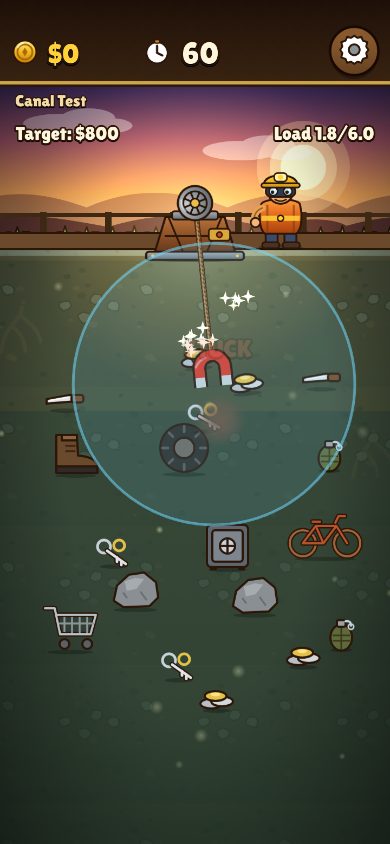
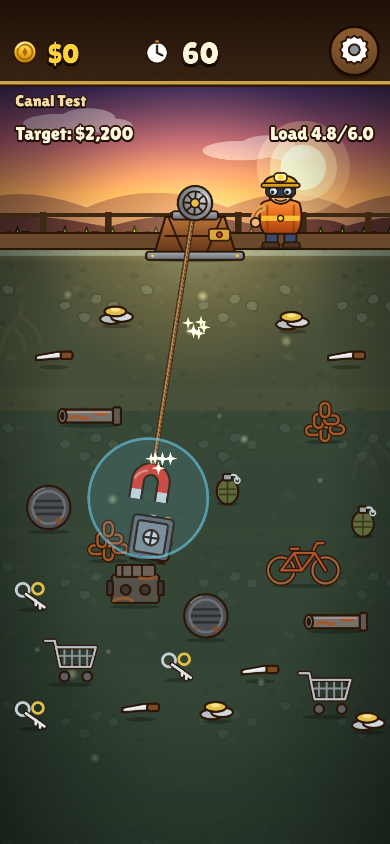
Magnet Test round 2: docs, asset list, screenshots
Claude-Session: https://claude.ai/code/session_01MzS7afRqjxV5kuCJX25p6R

diff --git a/docs/MAGNET_PROTOTYPE.md b/docs/MAGNET_PROTOTYPE.md
@@ -2,6 +2,15 @@
 
 Bu bir deneme. Amaç bitmiş oyun değil: "mıknatısla balık tutma" mekaniği telefonda eğlenceli mi, onu hissetmek. Deep Claw olduğu gibi duruyor, bu ayrı bir mod.
 
+## 2. tur: ne değişti (ilk oynanıştan sonra)
+
+1. **Çekim alanı çok küçüldü.** Varsayılan yarıçap 260 yerine **110**, aralık 80-420 yerine **60-200**. Çekim artık mesafeyle düz bir çizgide azalıyor (eskiden daha sert düşüyordu), böylece küçük alanda da "kayıp yapışma" görülebiliyor. Mıknatıs artık süpürge değil, biraz hata payı veren bir kanca.
+2. **Ayarlar yeni bir anahtarla saklanıyor** (`deepclaw.magnet.settings.v2`). Telefonda kalan eski büyük değerler yeni varsayılanları ezmez. İlk açılışta ayarların hepsi varsayılana dönmüş olacak.
+3. **El bombası çekim alanından hiç etkilenmiyor.** Kaymaz, titremez. Sadece mıknatısın yüzü doğrudan değerse patlar (patlama aynı: çevresindeki eşyaları ve mıknatısın taşıdığı yükü yok eder). Küçük bir kural değişikliği daha: eskiden mıknatıs neredeyse doluyken bombaya değerse patlamıyor, "takılıyordu". Artık kapasite fark etmez, değen bomba patlar.
+4. **Lastik, bot ve taş kaldırıldı.** Metal olmayan eşya yok. Yerlerine **ağır ve ucuz hurda metaller** geldi. Hepsi çekilir ve yapışır, ama kapasiteyi yer ve yavaş geri gelir (Deep Claw'daki kayalar gibi).
+5. **"Kanal Testi" baştan yerleştirildi** ve simülasyonla dengelendi. Hedef 800 yerine **2200**.
+6. Kapasiteye sığmayan bir eşyaya çarpınca çıkan yazı "TAKILDI" yerine **"SIĞMADI"**. Artık takılmanın tek sebebi bu.
+
 ## Nasıl açılır
 
 - Ana menüde kırmızı **Magnet Test** düğmesi (Levels düğmesinin altında).
@@ -10,81 +19,117 @@ Bu bir deneme. Amaç bitmiş oyun değil: "mıknatısla balık tutma" mekaniği 
 
 Dokunuş: ekranın herhangi bir yerine dokun, mıknatıs iner. Klavyede Boşluk veya Aşağı ok. `G` ayar panelini açar/kapar, `Esc` panelden/modden çıkar.
 
-Bu modun sonucu hiçbir şeyi kaydetmez: para, yıldız, ilerleme yok. Deep Claw kaydına dokunmaz. Sadece ayarların (aşağıda) hatırlanır.
+Bu modun sonucu hiçbir şeyi kaydetmez: para, yıldız, ilerleme yok. Deep Claw kaydına dokunmaz. Sadece ayarların hatırlanır.
 
 ## Oyun: "Kanal Testi"
 
-60 saniye, hedef 800 para. Köprüden bulanık bir kanala bakıyorsun. Mıknatıs aynı Deep Claw kancası gibi sallanır ve iner.
+60 saniye, hedef 2200 para. Köprüden bulanık bir kanala bakıyorsun. Mıknatıs Deep Claw kancası gibi sallanır ve iner. Kanaldaki her şey metal: değen ya da çekim alanında yanından geçen eşya yapışır. Yük yüzeye gelince hepsi birden teslim edilir.
 
-**Metal** eşyalar mıknatısa çekilir ve yapışır: bozuk para kümesi (50, hafif), anahtar destesi (90), çakı (70), paslı bisiklet (300, ağır), alışveriş arabası (450, çok ağır), kilitli kasa (150 ile 700 arası rastgele, teslimatta açılır) ve **eski el bombası** (değeri yok, yapışırsa patlar).
+| Eşya | Değer | Ağırlık | Not |
+|---|---|---|---|
+| Bozuk para kümesi | 50 | 0,5 | hafif |
+| Çakı | 70 | 0,6 | hafif |
+| Anahtar destesi | 90 | 0,8 | hafif |
+| Paslı bisiklet | 300 | 3,5 | değerli, ağır |
+| Kilitli kasa | 150 ile 700 arası (ortalama 425) | 4 | değerli, teslimatta açılır |
+| Alışveriş arabası | 450 | 6 | değerli, çok ağır: varsayılan kapasitede ancak mıknatıs boşken yapışır |
+| Paslı demir boru | 15 | 3 | hurda |
+| Rögar kapağı | 20 | 4 | hurda |
+| Paslı zincir yığını | 25 | 3,5 | hurda |
+| Eski motor bloğu | 40 | 6 | hurda, tek başına kapasiteyi doldurur |
+| Eski el bombası | 0 | - | çekilmez, değerse patlar |
 
-**Metal olmayan** eşyalar (lastik, bot, taş) çekilmez. Mıknatıs bunlara çarparsa takılır ve o anki yüküyle geri döner.
+**Hurda neden tuzak:** varsayılan kapasite 6. Önüne bir boru (3) çıkarsa, arkasındaki kasa (4) artık sığmaz: mıknatıs kasaya çarpar, "SIĞMADI" der ve sadece boruyla, yavaşça geri gelir. Değerli eşyaya ulaşmak için hurdayı atlatacak açıyı seçmen ya da önce hurdayı temizlemen gerekir.
 
-Yük yüzeye gelince hepsi birden teslim edilir. Süre bitince ya da kanalda alınacak metal kalmayınca bölüm biter; inen mıknatıs önce geri gelir (Deep Claw ile aynı kural).
+**Yerleşim:**
+- Üstte hafif bozuk paralar. Anahtar destesi tam başlangıcın altında.
+- **Kasa** ortanın biraz solunda. Sol yarısını bir boru örtüyor, sağında bir bomba bekliyor. Aralarında yaklaşık **14 derecelik** açık su var (eskiden 6 derece).
+- **Bisiklet** sağda. Sağ yarısını bir zincir yığını örtüyor, yanında ikinci bomba var. Açık pencere yaklaşık 9 derece.
+- **İki alışveriş arabası** başlangıçta tamamen hurdanın arkasında. Soldakinin önünde zincir yığını ve motor bloğu, sağdakinin önünde bisiklet ve bir boru var. Önce onları temizlemek gerekiyor.
+- Altta, rögar kapaklarının arkasında birkaç hafif eşya.
+
+Süre bitince ya da kanalda alınacak bir şey kalmayınca bölüm biter; inen mıknatıs önce geri gelir.
 
 ### Neyi denemeni öneririm
 
-1. Önce ayarları elleme. Doğrudan aşağıya at: ortada anahtar destesi var, kolay para.
-2. Halkaya bak. Mavi yarı saydam halka çekim alanı. İçindeki metal eşyalar titreyerek mıknatısa kayar.
-3. Ortadaki lastiğin arkasında **kasa** var. Düz atınca lastiğe takılırsın. Kasayı almak için lastiğin hafif sağından geçecek bir açı lazım (ekran görüntüsünde sağ orta). Çekim yarıçapını büyütünce daha kolay olur.
-4. **El bombaları** değerli şeylerin yanında (bisikletin yanı, sağ alttaki paraların yanı). Çekim yarıçapı büyükse bombayı da çekersin. Bomba yapışınca patlar, yanındaki eşyaları ve mıknatısın taşıdığı yükü de yok eder, mıknatıs boş döner.
-5. İki davranışı karşılaştır (panelde mavi düğme). Aynı seviyeyi ikisiyle de oyna.
-6. Kapasiteyi 2'ye indir, sonra 14'e çıkar. Hissini karşılaştır.
-7. Ağır şeyleri (araba, bisiklet) tek başına çek: dönüş ne kadar yavaş?
+1. Önce ayarları elleme. Halkanın ne kadar küçüldüğüne bak. Bir eşyanın hemen yanından geçince ona doğru kaydığını gör: hafif eşyalar belirgin kayar, ağır olanlar neredeyse hiç.
+2. Bombanın yanından kasten geç. Halkanın içinde kalsa bile kıpırdamamalı.
+3. Kasayı boru ile bomba arasından al.
+4. Bir arabaya ulaşmayı dene: önündeki hurdayı mı temizlersin, yoksa başka şeye mi gidersin? Bu bölümün asıl kararı bu.
+5. Kapasiteyi 8'e çıkar, sonra 4'e indir. 8'de boru artı kasa sığar ve tuzak yumuşar. 4'te araba ve motor bloğu hiç alınamaz, engel olur.
+6. Davranışı (panelde mavi düğme) değiştirip aynı seviyeyi oyna.
 
 ## Ayar paneli
 
-Oyun ekranında sağ üstteki **dişli** düğmesi. Panel alttan açılır, yarı saydam. Oyun arkada çalışmaya devam eder, sadece **süre sayacı durur** (ayar yaparken süre yanmasın diye). Panelin üstündeki alana dokunarak atış yapıp değişikliği hemen deneyebilirsin. Değerler telefonda hatırlanır. **Varsayılana dön** hepsini sıfırlar.
+Oyun ekranında sağ üstteki **dişli** düğmesi. Panel alttan açılır, yarı saydam. Oyun arkada çalışmaya devam eder, sadece **süre sayacı durur**. Değerler telefonda hatırlanır. **Varsayılana dön** hepsini sıfırlar.
 
-| Ayar | Ne işe yarar | Aralık |
+| Ayar | Ne işe yarar | Aralık | Varsayılan |
+|---|---|---|---|
+| Çekim yarıçapı | Mıknatısın yüzünden eşyanın ortasına kadar ölçülen alan. İçindeki eşyalar (bomba hariç) mıknatısa kayar. | 60 - 200 | 110 |
+| Çekim gücü | Alandaki eşyaların ne hızla kaydığı. Kenara doğru azalır, eşya ağırsa yavaşlar. | 100 - 1600 | 700 |
+| Kapasite | Mıknatısın taşıyabileceği toplam ağırlık. Dolunca geri döner. Kalan kapasiteye sığmayan eşya yapışmaz, mıknatıs ona çarpıp durur. | 2 - 20 | 6 |
+| İniş hızı | Mıknatıs ne hızla iner. | 300 - 1500 | 850 |
+| Davranış | **Süpürme:** kapasite dolana, kenara ya da sığmayan bir şeye çarpana kadar iner, yoldaki her şeyi toplar. **İlk yapışmada dur:** ilk eşya yapışınca geri döner. | iki seçenek | Süpürme |
+| Halka | Çekim alanını gösteren halka. Kapalıyken de alan çalışır. | açık / kapalı | açık |
+
+Ayarlarda olmayıp `src/config/magnet.ts` içinde olanlar: eşya değerleri ve ağırlıkları, geri çekme gücü, çekimin mesafeyle azalma eğrisi (`falloffPower`, şimdi 1), bomba yarıçapı, "bomba yükü de yok etsin mi", seviye yerleşimi ve hedef.
+
+## Denge ölçümleri
+
+Ölçümler `npx vite-node tools/magnet-balance.ts` ile alındı. Para beklenen değerle sayılır (kasa 425), böylece sonuç tekrarlanabilir. Kanaldaki toplam para 2625.
+
+**Çekim alanının hata payı** (850 iniş hızında, eşyanın yanından düz geçerken; "doğrudan değme" mesafesinin üstüne eklenen kısım):
+
+| Eşya | Eski (260, sert eğri) | Yeni (110, düz eğri) |
 |---|---|---|
-| Çekim yarıçapı | Mıknatısın etrafındaki alan. Büyüdükçe nişan almak kolaylaşır, ama bombayı ve istemediğin şeyleri de çekersin. | 80 - 420 |
-| Çekim gücü | Alandaki eşyaların ne hızla kaydığı. Mesafe arttıkça zayıflar, eşya ağırsa yavaşlar. | 100 - 1600 |
-| Kapasite | Mıknatısın taşıyabileceği toplam ağırlık. Dolunca geri döner. Kalan kapasiteye sığmayan metal eşya yapışmaz, engel gibi davranır (mıknatıs takılır). | 2 - 20 |
-| İniş hızı | Mıknatıs ne hızla iner. Hızlıysa süre kazanırsın, yavaşsa daha rahat nişan alırsın. | 300 - 1500 |
-| Davranış | **Süpürme:** kapasite dolana, kenara ya da metal olmayan bir şeye çarpana kadar iner, yoldaki her şeyi toplar. **İlk yapışmada dur:** ilk eşya yapışınca geri döner (Deep Claw'a daha yakın). | iki seçenek |
-| Halka | Çekim alanını gösteren halka. Kapalıyken de alan çalışır, sadece görünmez. | açık / kapalı |
+| Bozuk para | +98 px | +28 px |
+| Anahtar | +60 px | +20 px |
+| Kasa | +16 px | +4 px |
+| Bisiklet | +16 px | 0 |
+| Boru / motor bloğu | +18 / +10 px | +2 / +2 px |
 
-Ayarlarda olmayıp `src/config/magnet.ts` içinde olanlar (istersen söyle, panele ekleyeyim): geri çekme gücü, çekimin mesafeyle zayıflama eğrisi, bomba yarıçapı, "bomba yükü de yok etsin mi", eşya ağırlıkları ve değerleri, seviye yerleşimi ve hedef.
+**Oyuncu simülasyonları** (varsayılan ayarlar):
 
-## Önerdiğim başlangıç değerleri
+| | Süpürme | İlk yapışmada dur |
+|---|---|---|
+| Kusursuz oyuncu: hedefe ulaştığı an | **39,8 sn** | 33,9 sn |
+| Kusursuz oyuncu, kasa en düşük (150) çıkarsa | 49,2 sn | 42,9 sn |
+| Kusursuz oyuncu, kasa en yüksek (700) çıkarsa | 33,2 sn | 29,9 sn |
+| Kusursuz oyuncu: kanalı bitirdiği an / toplam | 55,7 sn, 2555 | 49,5 sn, 2555 |
+| İyi oyuncu (doğru kararlar, dokunuşu 0,1 sn'ye kadar şaşıyor), 20 oyun | ort. 2343, %75 hedefe ulaştı, ort. 55,1 sn'de | ort. 2488, %90 ulaştı, ort. 45,7 sn'de |
+| Sıradan oyuncu (rastgele anlarda dokunuyor), 60 oyun | ort. 1046, %0 hedefe ulaştı | ort. 926, %0 |
+| Kasa penceresi (başlangıçta) | 14 derece | 0 (önce üstteki anahtar yapışır) |
+| Bisiklet penceresi (başlangıçta) | 8,75 derece | 0,75 derece |
 
-Çekim yarıçapı **260**, çekim gücü **700**, kapasite **6**, iniş hızı **850**, davranış **Süpürme**, halka **açık**. Bunlar paneldeki varsayılanlar.
+"Kusursuz oyuncu" her atıştan önce bir tam salınım boyunca her anı dener, en umut verici olanlar için bir sonraki atışı da hesaplar ve saniye başına en çok parayı seçer.
 
-Nasıl seçtim: kodla bir "sıradan oyuncu" simülasyonu çalıştırdım (rastgele zamanlarda dokunan, nişan almayan biri, 60 oyun). Son varsayılanlarla sonuçlar:
+Hedefi değiştirmek istersen (Süpürme, kusursuz oyuncu / sıradan oyuncunun kazanma oranı): 1600 → 23,9 sn / %10, 1800 → 33,2 sn / %3, 2200 → 39,8 sn / %0.
 
-- **Süpürme:** ortalama 710 para, hedefi (800) tutturan %40.
-- **İlk yapışmada dur:** ortalama 852 para, hedefi tutturan %52.
-- Kapasite 14 yapınca Süpürme ortalaması 834'e çıkıyor. Kapasite 8 ile 14 neredeyse aynı sonucu veriyor (836 ve 834, ilk denemelerde): 8 ve üstünde kapasiteyi bu seviyede hiçbir şey zorlamıyor, ayarın anlamı kalmıyor. 6'da gerçek bir seçim çıkıyor: kasa ile bisiklet aynı atışta sığmıyor.
-- Çekim yarıçapı en güçlü zorluk ayarı çıktı (Süpürme): 120'de ortalama 597, 260'ta 710, 380'de 875.
-- Hedefi 800 yaptım ki sıradan oyuncu kabaca yarı yarıya kazansın.
+## Dürüst gözlemlerim
 
-[Muhtemel] Bunlar bir simülasyon, gerçek insan değil. Gerçek hissi sadece sen telefonda görebilirsin; sayıları güvenme, hisse güven.
+Güven düzeyleri: [Kesin] ölçtüm ya da kodda görüyorum, [Muhtemel] ölçümden çıkarım, [Tahmin] tasarımdan tahmin.
 
-## Deep Claw'a göre dürüst gözlemlerim
-
-Güven düzeyleri: [Kesin] ölçtüm ya da kodda görüyorum, [Muhtemel] ölçümden çıkarım, [Tahmin] hissettiğim için değil, tasarımdan tahmin ediyorum.
-
-1. **[Kesin] Gerçek telefonda denenmedi.** Testler yazılımla çizen Chromium'da koştu (yaklaşık 6 FPS). Akıcılık ve dokunma hissi hakkında hiçbir şey söyleyemem. Mantık testleri oyunu kodla ilerleterek yapıldı.
-2. **[Muhtemel] Çekim alanı oyunu Deep Claw'dan belirgin biçimde kolaylaştırıyor.** Kancada eşyaya tam isabet etmek gerekiyor. Burada yarıçap kadar hata payın var. Bu yüzden "nişan alma becerisi" yerini "hangi sütunu seçeceğim, neyi çekmeyeceğim" kararına bırakıyor. Eğlence buradan gelecekse (bombalar, lastikler, kapasite) iyi; nişan hazzını seviyorsan mod ona benzemeyebilir.
-3. **[Kesin] Mükemmel nişancı kanalı yaklaşık 15 saniyede boşaltıyor** (Süpürme: 4 atışta 1670 / 1785, simülasyon; İlk-yapışmada-dur: 8 atışta 1370). Yani yetenekli bir oyuncu için 60 saniye fazla uzun, seviye çok az eşya içeriyor. İnsan bu kadar kusursuz oynayamaz, ama "ustalaşınca sıkılır" riski gerçek. Daha çok eşya ya da yeniden dolan eşya gerekebilir. İlk-yapışmada-dur modu daha Deep Claw gibi (her atış tek karar).
-4. **[Kesin] Kasayı almak dar bir zamanlama.** Lastiğin yanından geçen açı penceresi yaklaşık 6 derece. Salınımın ortasında bu yaklaşık 35 ms eder. Yani neredeyse şans atışı. Yarıçap büyütünce genişliyor. Bunu bilerek "değerli ve zor" bıraktım ama hoşuna gitmezse kasayı kolaylaştırırız.
-5. **[Kesin] El bombası bilerek acımasız:** yapışınca yanındaki yükü de yok ediyor. `blastDestroysCarried` ile kapatılabilir. İlk denemede muhtemelen can sıkıcı gelir; bir şey öğrenmek için bırakıyorum.
-6. **[Muhtemel] Ağır yük gerilimi çalışıyor:** 6 ağırlık yük 200 px/sn ile geliyor (Deep Claw'da büyük altın 125 px/sn). Dönüş yolunda beklemek sayaçla birlikte baskı yaratıyor.
-7. **[Kesin] Sesler jenerik.** Mevcut sesleri yeniden kullandım (kanca sesi, taş sesi...). Mıknatıs "tak" sesi ya da elektrik cızırtısı yok. Hissi ciddi biçimde etkileyebilir, ama istediğin gibi cila yapmadım.
-8. **[Kesin] Görseller geçici SVG.** Köprü ve su basit şekiller, vinç ve madenci Deep Claw'dan. Sular "bulanık" ama derinlik hissi zayıf.
-9. **[Tahmin]** Asıl eğlence kaynağı yük arttıkça mıknatısa yapışan eşyaların birikmesi ve el bombasının "ya patlarsa" gerilimi olabilir. Bunu ancak elinde oynayınca anlarız.
+1. **[Kesin] Bu hedef zor.** İstediğin gibi kusursuz oyuncu hedefe yaklaşık 40. saniyede ulaşıyor, ama bunun bedeli şu: rastgele dokunan oyuncu hiç kazanamıyor (eskiden %40), doğru kararları verip sadece biraz şaşan "iyi oyuncu" bile %25 oranında kaçırıyor ve genelde son saniyelerde yetişiyor. Gerçek bir insan muhtemelen ikisinin arasında, yani çoğu oyunda kaybedebilirsin. Fazla zor gelirse `src/config/magnet.ts` içinde `target` değerini 1800'e indirmek en basit ayar.
+2. **[Kesin] Kasanın rastgele parası sonucu çok oynatıyor.** Kusursuz oyuncu bile kasa 150 çıkarsa 49 saniyede, 700 çıkarsa 33 saniyede hedefe ulaşıyor. Şans payı istiyorsan iyi; istemiyorsan kasanın aralığını daraltmak gerekir.
+3. **[Kesin] Bölüme bir şey ekledim:** ikinci bir alışveriş arabası ve birkaç hafif eşya (18 yerine 25 eşya). Sebep: sadece hedefi yükseltmek yetmiyordu. İlk denediğim 18-21 eşyalı yerleşimlerde kusursuz oyuncu kanalı 31-44 saniyede tamamen bitiriyordu; hedefi 40. saniyeye koymak "neredeyse her şeyi topla" (toplamın %95'i) demek oluyordu. Daha çok içerik, hedefin toplamın %84'ünde kalmasını sağladı.
+4. **[Muhtemel] Çekim alanı artık hafif eşyalarda hissediliyor, ağırlarda neredeyse hiç.** Bozuk para 28 px öteden kayıp yapışıyor, kasa 4 px, bisiklet ve hurda hiç. Bu "ağır şey zor kıpırdar" mantığına uygun, ama mıknatısın "büyük uçlu bir kanca" gibi hissetme riski var. Ağır eşyaların da biraz kaymasını istersen çekim gücünü artırmak yerine `falloffPower` ya da ağırlık bölmesi ayarlanmalı.
+5. **[Kesin] Süpürme davranışında ters bir durum var:** kasayı aldıktan sonra mıknatıs inmeye devam ediyor ve arkasındaki hurdaya (motor bloğu, rögar kapağı) çarpıp duruyor. Yani hurda bazen işine yarıyor: dalışı erken bitirip ağır yükün dönüş yolunu kısaltıyor. Sezgiye ters gelebilir. İlk yapışmada dur davranışında bu yok.
+6. **[Kesin] İlk yapışmada dur davranışında kasa ilk atışta alınamıyor**, çünkü üstteki anahtar destesi önce yapışıp mıknatısı geri çağırıyor. Bölümü Süpürme'ye (varsayılan) göre dengeledim.
+7. **[Kesin] Arabalar başlangıçta hiçbir açıdan alınamıyor**, önce hurda temizlenmeli. İstediğin "en az iki değerli eşyaya doğrudan ulaşılabilsin" kuralını kasa ve bisiklet sağlıyor.
+8. **[Tahmin] Bisiklet de pas renginde**, yeni hurdalarla aynı renk ailesinde. Şekli çok farklı olduğu için ekran görüntüsünde karışmıyor, ama küçük ekranda bir bakışta ayırt etmek zorlaşabilir. Gerçek çizimde bisikleti daha canlı bir renge almanı öneririm.
+9. **[Kesin] Gerçek telefonda denenmedi.** Testler yazılımla çizen Chromium'da koştu (yaklaşık 6 FPS). Akıcılık ve dokunma hissi hakkında bir şey söyleyemem.
+10. **[Kesin] Sesler ve görseller hâlâ geçici.** Hurdalar basit yer tutucu SVG.
 
 ## Teknik özet
 
 - Kurallar `src/systems/MagnetSession.ts` (Phaser'sız), ayar saklama `src/systems/MagnetSettings.ts`, tüm sayılar `src/config/magnet.ts`.
-- Yeniden kullanılanlar: `Claw` (sallanma, fırlatma, geri çekme), `Collision` (swept), keg patlaması, `AudioManager`, `Backdrop`, HUD bileşenleri, `Slider`/`Button`.
-- Mevcut koda dokunulanlar (hepsi geriye uyumlu): `Claw` (ayar tipi genişledi, `recall()` ve isteğe bağlı `carriedWeight` eklendi), keg patlama kodu `Session` içinden `src/systems/Explosion.ts`'e taşındı ve `Session` onu çağırıyor, `Slider` (`setValue` ve isteğe bağlı dokunma yüksekliği), `Preload` (`?mode=magnet`), `MainMenu` (düğme), `main.ts`, `manifest.ts`, `e2e/helpers.ts` (isteğe bağlı sahne parametresi).
-- Görseller: `public/assets/images/mg_*.svg`. Değiştirmek için aynı adla ve boyutta dosya koy. `npm run assets:magnet-art` komutu bu 11 dosyayı baştan üretir ve senin değiştirdiklerini ezer, sadece ilk halini istersen çalıştır.
+- Denge simülasyonu `src/systems/MagnetBalance.ts` (kusursuz oyuncu, sıradan oyuncu, açı taraması). Rapor: `npx vite-node tools/magnet-balance.ts` (yaklaşık 35 saniye sürer). Birim testleri kasa penceresini, doğrudan ulaşılabilen değerlileri ve kusursuz oyuncunun 35-45 saniye aralığını kontrol ediyor; bölümü değiştirirsen `npm test` haber verir.
+- Bu turda kaldırılanlar: `metal` alanı ve metal olmayan eşya kodu (artık her şey metal), tire/boot/stone görselleri ve kayıtları. "Takılma" kodu sadece kapasiteye sığmayan eşyalar için duruyor.
+- Görseller: `public/assets/images/mg_*.svg`, listesi `docs/ASSETS.md` içinde. `npm run assets:magnet-art` bu 12 dosyayı baştan üretir ve senin değiştirdiklerini ezer.
 
 ## Bilinen eksikler
 
-- Telefonda test yok (yukarıda).
-- Tek bölüm, kayıt yok, dükkân yok, yıldız yok, duraklatma ekranı yok. Sekme arka plana gidince oyun donuyor (tarayıcı çizimi durdurur), ama ayrıca bir duraklatma ekranı yapmadım.
-- Metal eşyaların birbirinin içinden geçerek mıknatısa gelmesi ve yapışan eşyaların birbirinin üstüne binmesi görsel olarak kaba.
-- Çekim eğrisi ve ağırlıklar sadece simülasyonla ayarlandı.
+- Telefonda test yok.
+- Tek bölüm, kayıt yok, dükkân yok, yıldız yok, duraklatma ekranı yok.
+- Çekilen eşyalar diğer eşyaların içinden geçerek mıknatısa gelebiliyor ve yapışan eşyalar üst üste biniyor; görsel olarak kaba.
+- Denge sadece simülasyonla yapıldı.

diff --git a/docs/ASSETS.md b/docs/ASSETS.md
@@ -81,6 +81,27 @@ Collision shapes (not the art!) are set in `src/config/economy.ts`. They are sli
 
 Drawn sizes in the world: claw 90 x 72, winch 168 x 119, miner 96 x 122, drum 62 x 62 (set in `src/scenes/Game.ts`).
 
+### Magnet Test prototype images
+
+Only used by the separate Magnet Test mode (see `docs/MAGNET_PROTOTYPE.md`). They are drawn at exactly the listed size. `npm run assets:magnet-art` rewrites all of them from `tools/make-magnet-art.mjs`, so run it only if you want the first placeholder versions back: it overwrites your own files with the same names. Collision shapes and values are in `src/config/magnet.ts`.
+
+| Key | File | Size (px) | Anchor | Frames | What it shows |
+|---|---|---|---|---|---|
+| `mg_bike` | `public/assets/images/mg_bike.svg` | 150 x 96 | center | 1 | Rusty bicycle (valuable, heavy) |
+| `mg_cart` | `public/assets/images/mg_cart.svg` | 110 x 100 | center | 1 | Shopping cart (valuable, very heavy) |
+| `mg_chain` | `public/assets/images/mg_chain.svg` | 88 x 84 | center | 1 | Pile of rusty chain (cheap heavy scrap) |
+| `mg_coins` | `public/assets/images/mg_coins.svg` | 72 x 56 | center | 1 | Bunch of coins (light) |
+| `mg_engine` | `public/assets/images/mg_engine.svg` | 112 x 92 | center | 1 | Old engine block (cheap, heaviest scrap) |
+| `mg_grenade` | `public/assets/images/mg_grenade.svg` | 56 x 72 | center | 1 | Old grenade (explodes on a direct touch) |
+| `mg_keys` | `public/assets/images/mg_keys.svg` | 76 x 64 | center | 1 | Key bunch (light) |
+| `mg_knife` | `public/assets/images/mg_knife.svg` | 84 x 48 | center | 1 | Pocket knife (light) |
+| `mg_magnet` | `public/assets/images/mg_magnet.svg` | 88 x 72 | top centre = rope end; the poles at the bottom are the touching face | 1 (rotated by code) | Horseshoe magnet |
+| `mg_manhole` | `public/assets/images/mg_manhole.svg` | 96 x 96 | center | 1 | Manhole cover (cheap heavy scrap) |
+| `mg_pipe` | `public/assets/images/mg_pipe.svg` | 128 x 44 | center | 1 | Rusty iron pipe lying sideways (cheap heavy scrap) |
+| `mg_safe` | `public/assets/images/mg_safe.svg` | 96 x 96 | center | 1 | Locked safe (valuable, random money) |
+
+Scrap uses rust browns and dull iron on purpose, so it reads as junk next to the brighter valuables. Keep that contrast if you redraw them.
+
 ## Sounds
 
 All sounds were synthesised for this project (no samples, no licences needed). Replace any file with your own `.wav` of the same name.

diff --git a/CLAUDE.md b/CLAUDE.md
@@ -34,4 +34,4 @@ An original portrait mobile arcade game in the "swinging claw mining" genre, bui
 - Art / sound files: `public/assets/`, listed in `src/assets/manifest.ts` and `docs/ASSETS.md`. The generators in `tools/` made the first version only.
 - Test hooks: open the game with `?debug=1` to get `window.__game` and `window.__dc` (session, services). Playwright tests use them.
 - Software-rendered headless Chromium runs the game at about 6 fps, so browser tests step the session by code (`stepSession`) instead of waiting for real time.
-- Magnet Test prototype (branch `claude/magnet-prototype`): separate one-level mode, opened from the main menu or `?mode=magnet`. Details in `docs/MAGNET_PROTOTYPE.md`. Not part of the 20-level game and does not touch the save.
+- Magnet Test prototype (branch `claude/magnet-prototype`): separate one-level mode, opened from the main menu or `?mode=magnet`. Details in `docs/MAGNET_PROTOTYPE.md`. Not part of the 20-level game and does not touch the save. Round 2 (2026-11-02): small pull radius (110), grenades ignore the pull, tire/boot/stone replaced by heavy cheap scrap, level rebalanced with `tools/magnet-balance.ts`.
